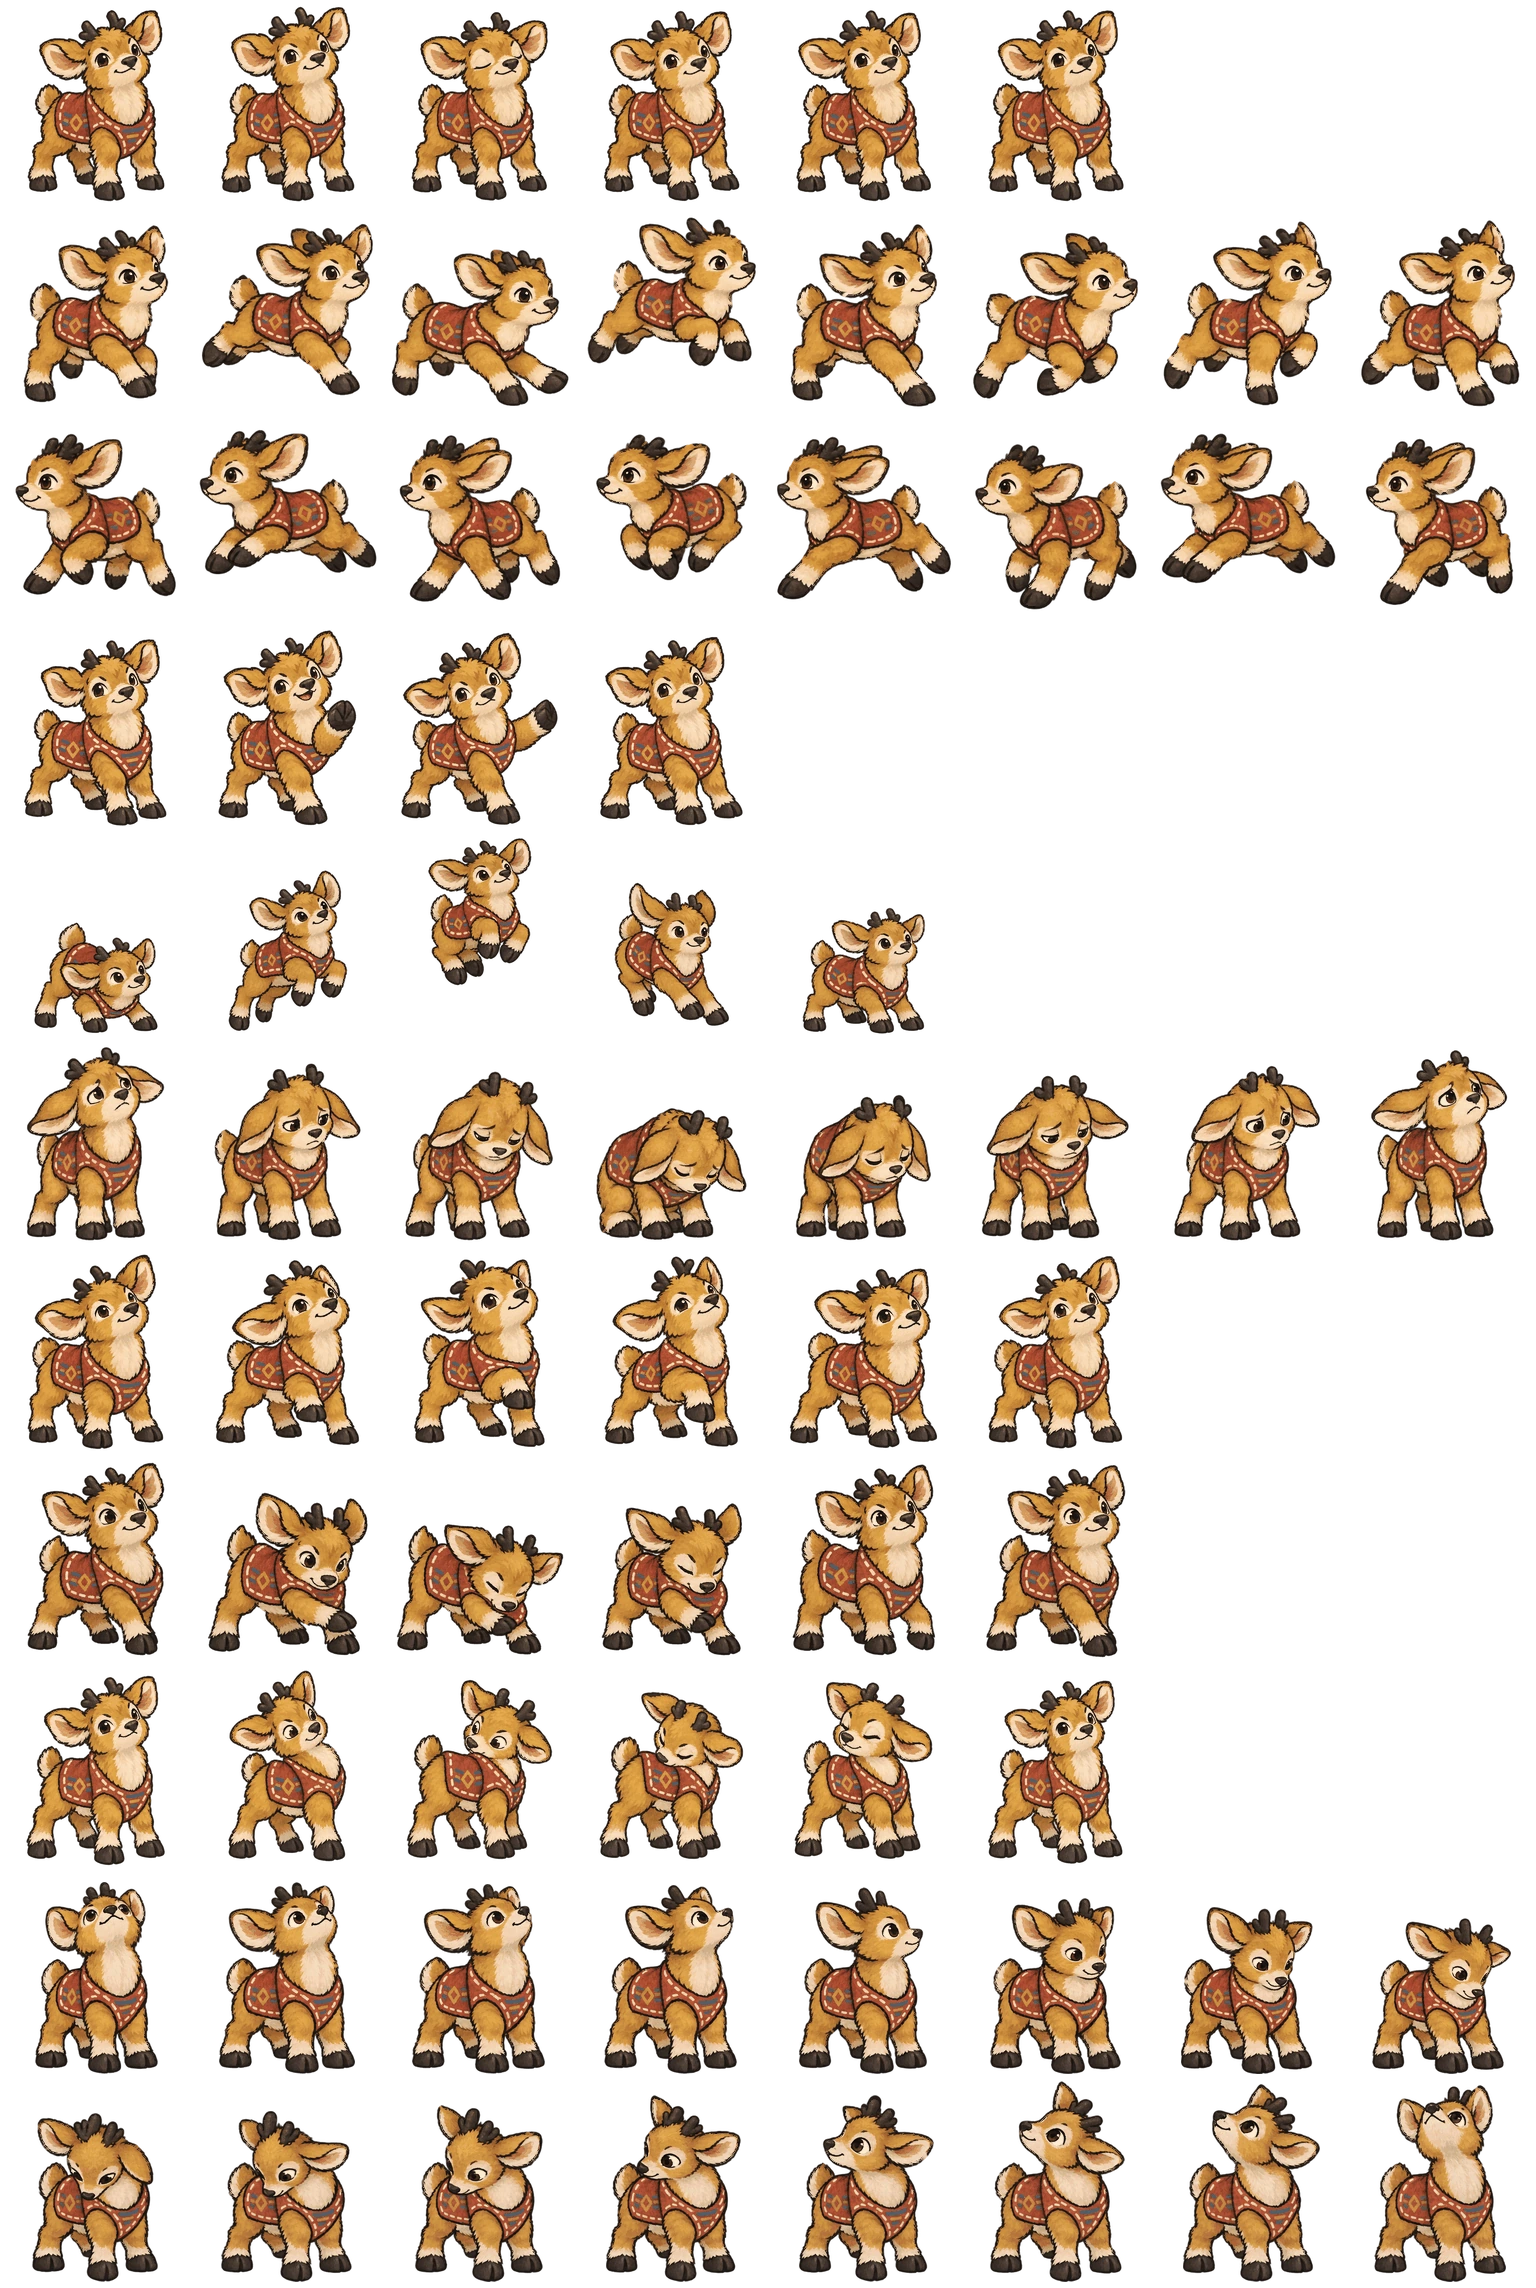
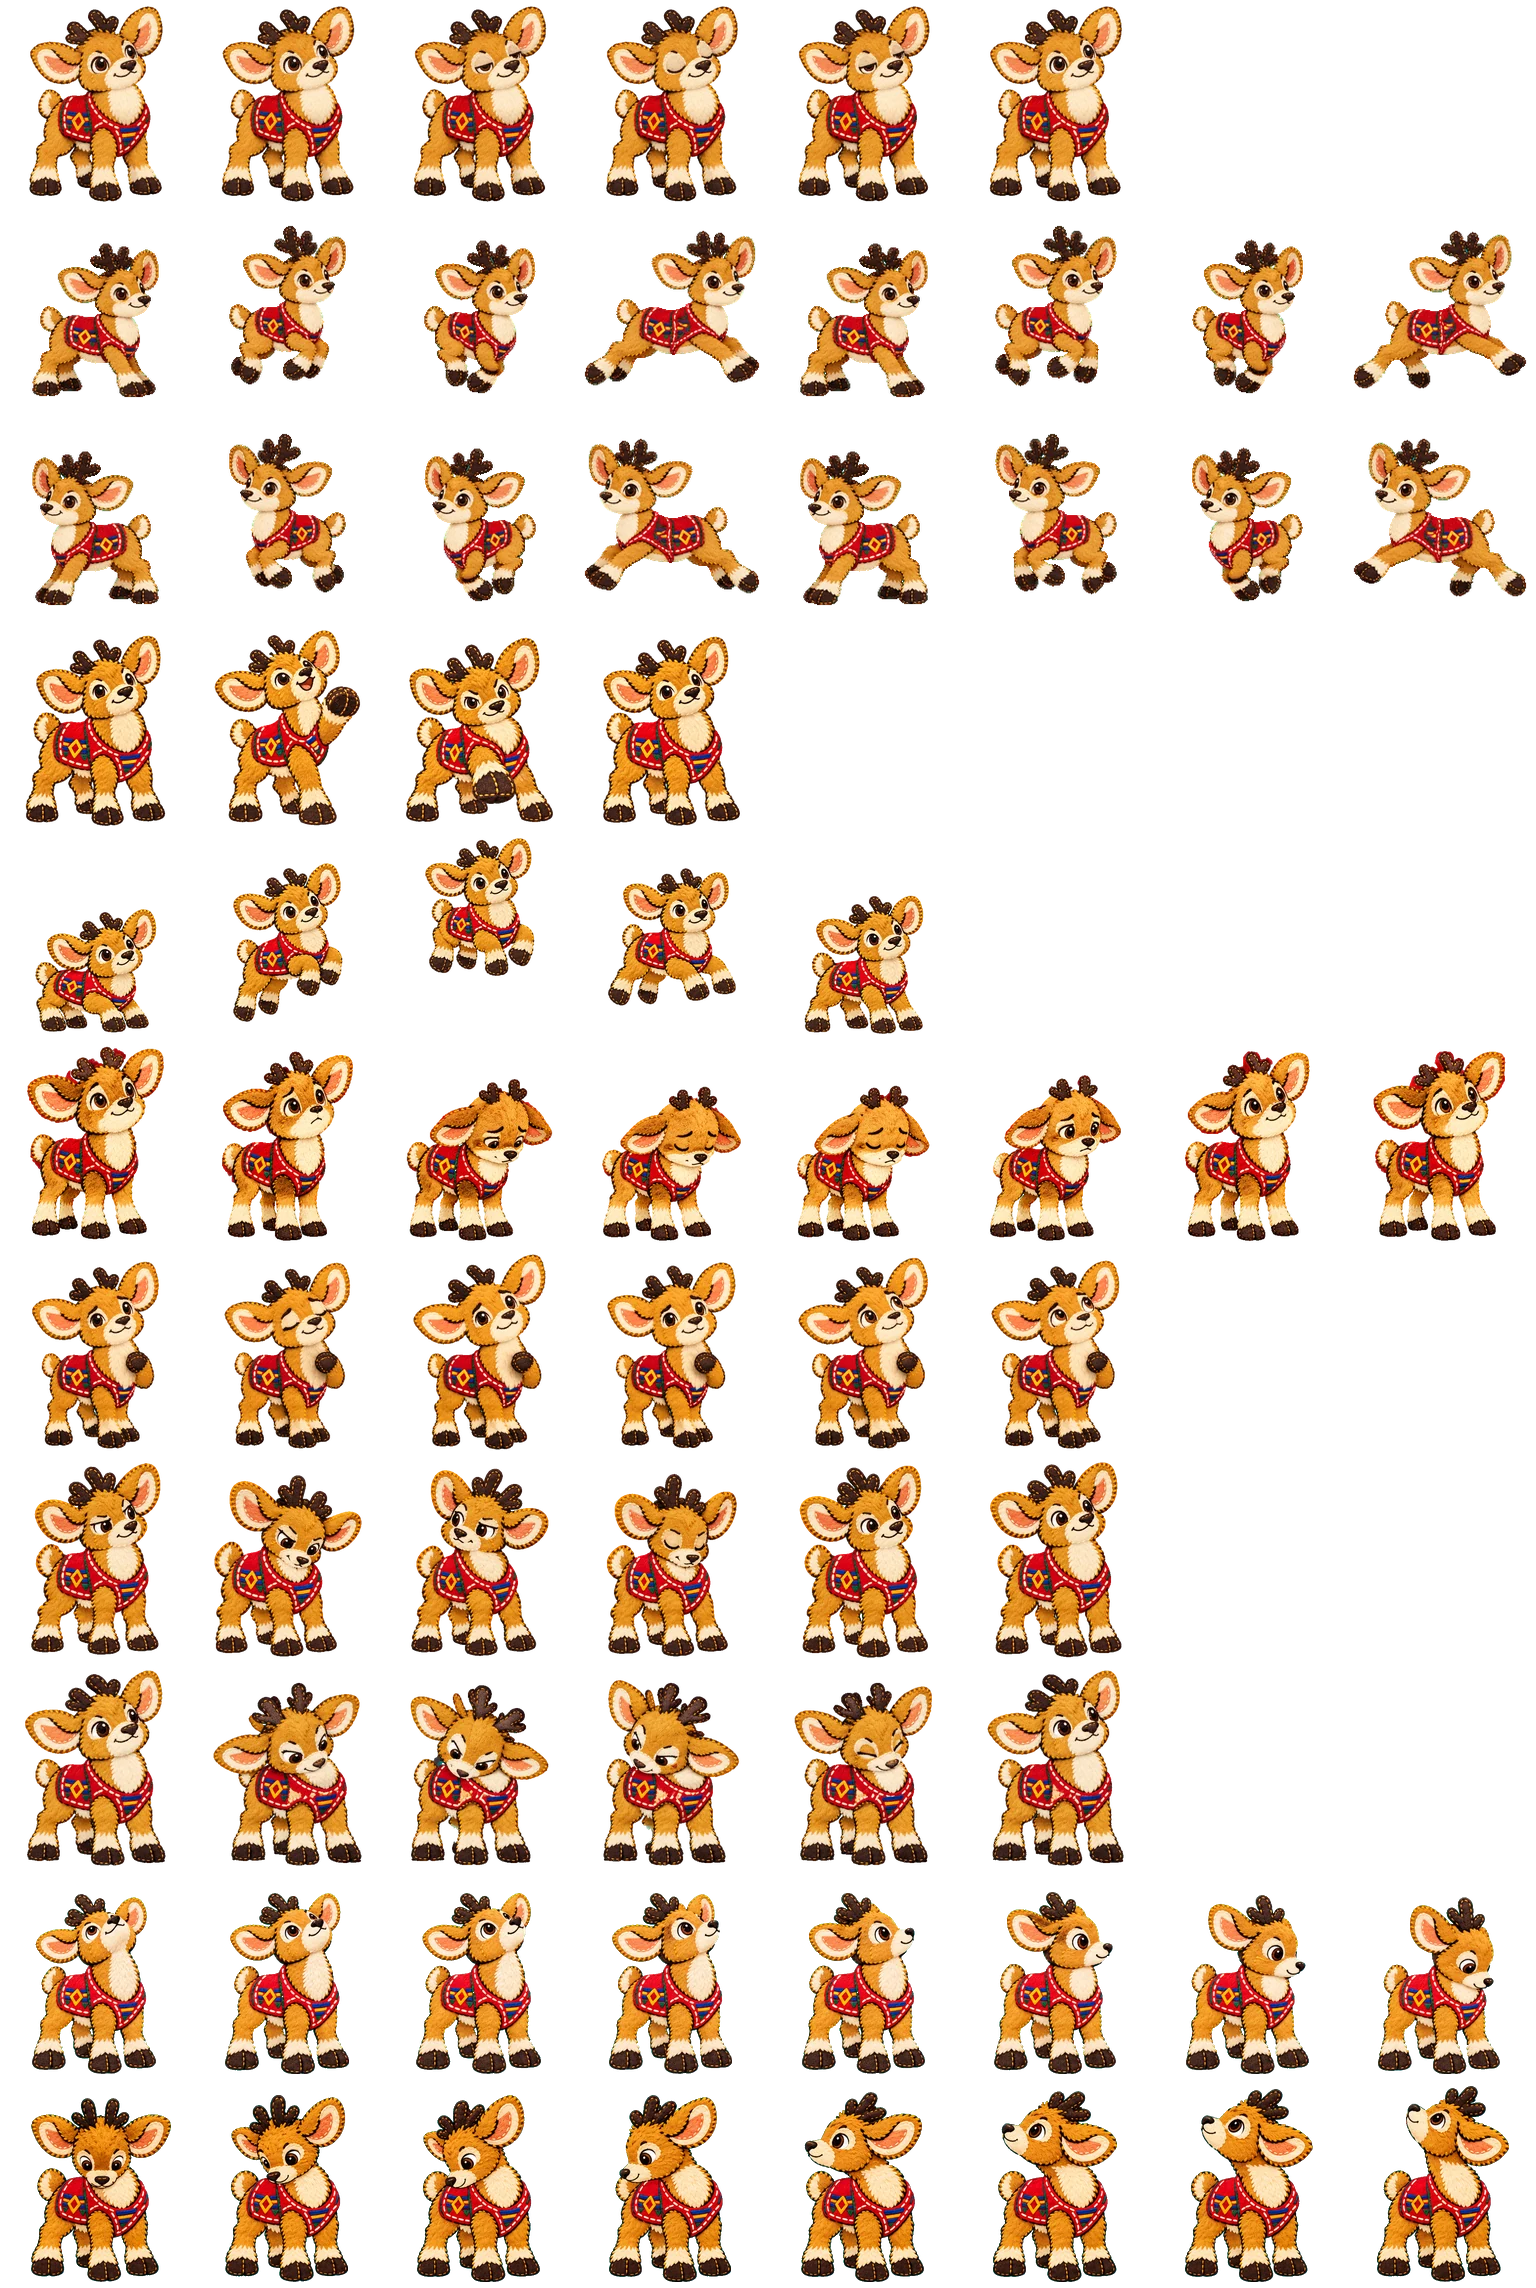
Pets: The Robber Girl redrawn [skip ci]
The Robber Girl followed in Sámi felt appliqué. Paul signed off the sheet ("sign off"). Lossy WebP q88, 928,702 bytes, alpha bit-identical (mean error 8.2/255); the 25 sheets total 21,500,912 bytes. pet-metrics.json and the making-of golden regenerated.

diff --git a/docs/marginarium-pets.md b/docs/marginarium-pets.md
@@ -214,6 +214,7 @@ Lossy WebP at quality 88 (alpha bit-identical; checked at 1x and 5x on light and
[4 lines of base64/hex data omitted]
 
-The Baba Yaga followed as a Russian lubok woodblock print. George followed as a Ballets Russes costume sketch in gouache. Madeleine followed as a Sunday-school flannelgraph in cut felt. The Nutcracker followed as a turned and painted Erzgebirge wooden toy. The twenty-eight sheets total
-**21,597,998 bytes (20.60 MiB)** of the 24 MiB budget.
+The Baba Yaga followed as a Russian lubok woodblock print. George followed as a Ballets Russes costume sketch in gouache. Madeleine followed as a Sunday-school flannelgraph in cut felt. The Nutcracker followed as a turned and painted Erzgebirge wooden toy. The Robber Girl followed in Sámi felt appliqué. The twenty-eight sheets total
+**21,500,912 bytes (20.50 MiB)** of the 24 MiB budget.
